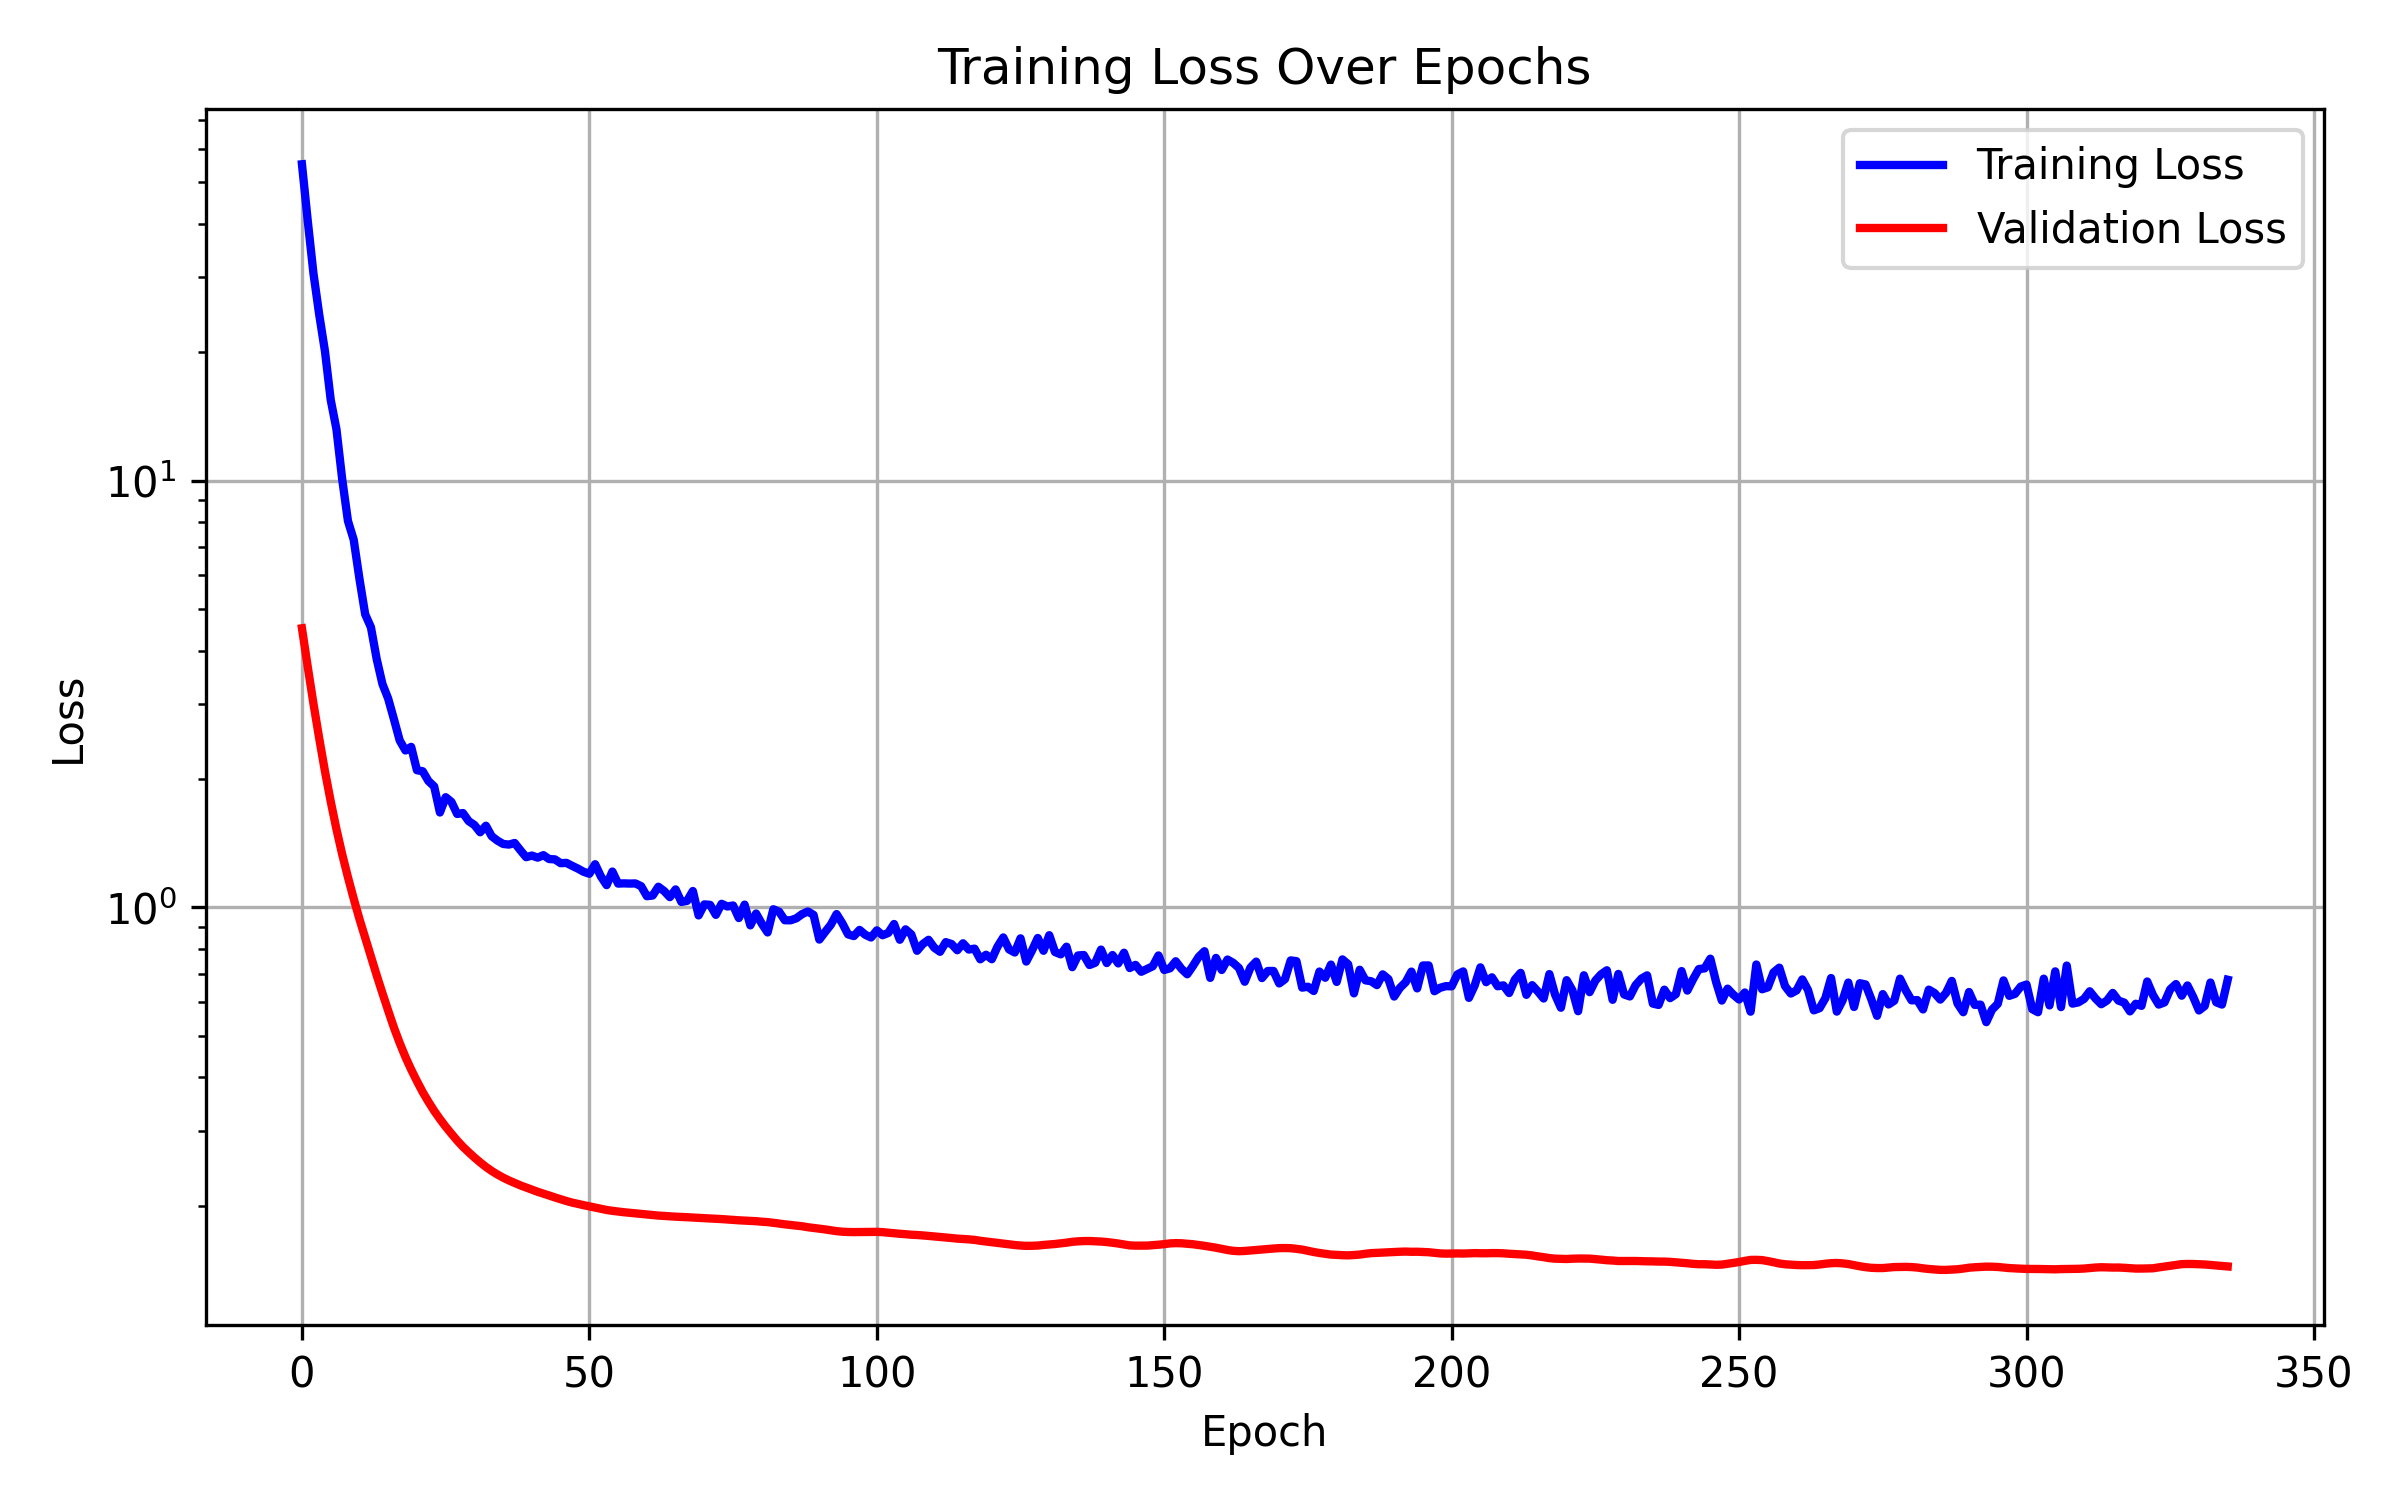
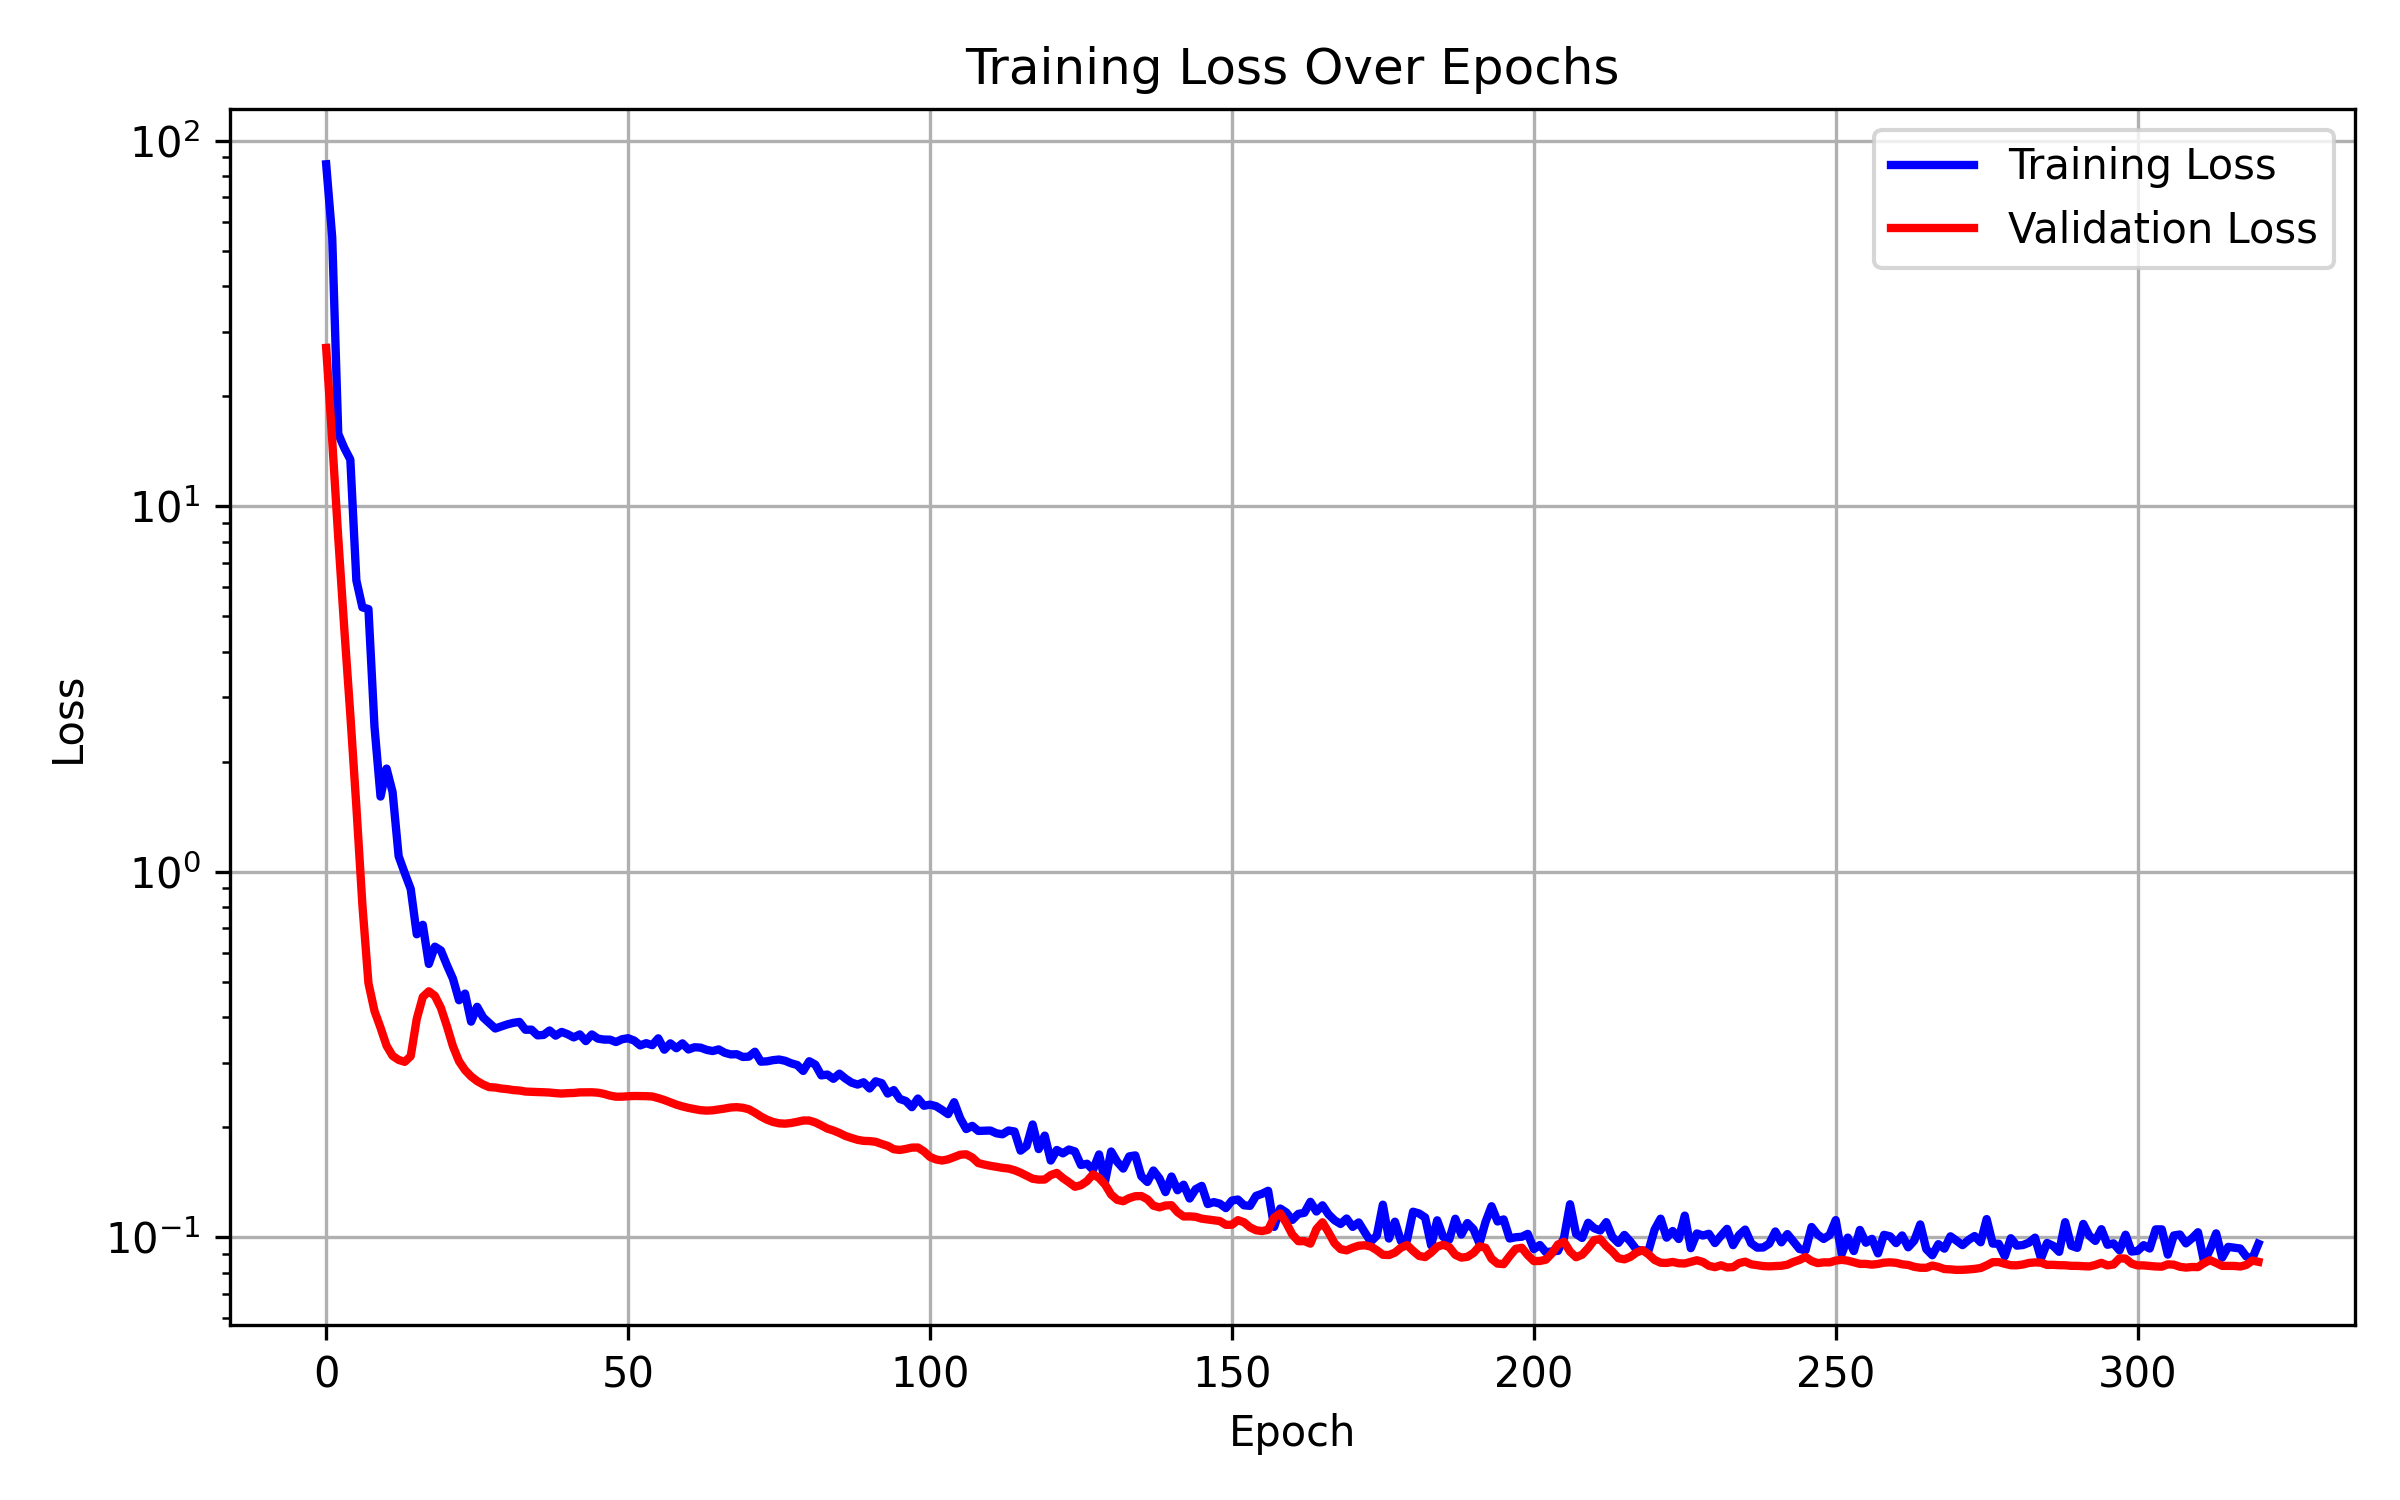
add feature generator fun

diff --git a/Data_Generator.py b/Data_Generator.py
@@ -6,6 +6,7 @@ import networkx as nx
 import matplotlib.pyplot as plt
 import math
 from itertools import product
+
 from tensorly.contrib.sparse import tensor as sparse_tensor
 
 
@@ -63,11 +64,6 @@ def generate_temporal_graph_dataset(
     assert Time % num_cycle == 0, "T must be evenly divisible by num_blocks"
     block_size = Time // num_cycle
 
-    # Divide nodes into two groups
-    # num_comm = 1
-    split_idx = nNodes // num_comm
-    # V1 = list(range(split_idx))
-    # V2 = list(range(split_idx, nNodes))
     # Assign nodes to communities
     node_communities = np.array([i * num_comm // nNodes for i in range(nNodes)])
 
@@ -91,8 +87,9 @@ def generate_temporal_graph_dataset(
     all_feat_tensors = []
 
 
+
     # Generate random node features (shared across samples)
-    X = torch.randn((nNodes, Time, Features))
+    # X = torch.randn((nNodes, Time, Features))
 
     # Generate samples
     for _ in range(num_samples):
@@ -116,20 +113,40 @@ def generate_temporal_graph_dataset(
 
         # Store tensors
         all_adj_tensors.append(torch.tensor(A, dtype=torch.float32))
+        # all_feat_tensors.append(X.clone())
+
+        # Define means and ranges for each community and cycle
+
+        means, ranges = generate_means_ranges(num_comm, num_cycle)
+        print("Means:\n", means)
+        print("Ranges:\n", ranges)
+
+        # Initialize X with zeros
+        X = torch.zeros((nNodes, Time, Features))
+
+        for node in range(nNodes):
+            comm = node_communities[node]
+            for t in range(Time):
+                t_block = t // block_size
+                # Repeat only first two cycles if more
+                effective_cycle = t_block % 2
+
+                mean = means[comm, effective_cycle]
+                spread = ranges[comm, effective_cycle]
+
+                # Draw from normal distribution (can be changed to uniform if needed)
+                value = np.random.normal(loc=mean, scale=spread)
+                X[node, t, 0] = value  # Features assumed to be 1  **** if change here we need to change the code ****
+
         all_feat_tensors.append(X.clone())
+        x_sample = X.numpy()
+        # print(f'x_sample, {x_sample}')
+
     # Pack dataset
-
-
     dataset = {
         "adj": all_adj_tensors,  # List of adjacency tensors
         "feat": all_feat_tensors  # List of feature tensors
     }
-
-    # print(f'all_adj_tensors_nonzero, {torch.count_nonzero(all_feat_tensors[0])}')
-    # print(f'all_feat_tensors_nonzero, {torch.count_nonzero(all_feat_tensors[0])}')
-    # print(all_adj_tensors[0].shape)
-    # print(f'dataset adj spr, {len(dataset['adj_spr'][0]['indices'])}')
-    # print(f'dataset adj spr, {dataset['adj_spr'][0]['values']}')
 
     # Save dataset
     torch.save(dataset, save_path)
@@ -139,6 +156,25 @@ def generate_temporal_graph_dataset(
         _visualize_temporal_graph(all_adj_tensors[0], Time, node_i, node_j, num_snapshots)
 
     return dataset
+
+
+import numpy as np
+
+def generate_means_ranges(num_comm, num_cycle=2):
+    # Generate means with some spacing to avoid duplicates
+    base_means = np.linspace(1, 5, num_comm * num_cycle)  # Spread means over 1 to 5
+    np.random.shuffle(base_means)  # Shuffle for randomness
+    community_cycle_means = base_means.reshape(num_comm, num_cycle)
+
+    # Generate ranges smaller than means, spread between 0.1 and 0.5
+    base_ranges = np.linspace(0.1, 0.5, num_comm * num_cycle)
+    np.random.shuffle(base_ranges)
+    community_cycle_ranges = base_ranges.reshape(num_comm, num_cycle)
+
+    return community_cycle_means, community_cycle_ranges
+
+
+
 
 
 def _visualize_temporal_graph(A_tensor, Time, node_i, node_j, num_snapshots):

diff --git a/main.py b/main.py
@@ -8,21 +8,21 @@ from train_batch import train_model as train_model_batch
 from train_batch import evaluate_model as evaluate_model_batch
 from visulisation import plot_training_curves
 from parafac_fun import parafac_decomposition_list_dense, parafac_decomposition_list_sparse, parafac_decomposition_dense
-from preparing_data import split_dataset, split_dataset_sparse
+from preparing_data import split_dataset
 import matplotlib.pyplot as plt
 import time
 import os
 
 # ==== 1. Preparing Dataset Parameters ====
-nNodes = 20           # Number of nodes in the graph
-Time = 10             # Number of time steps (snapshots)
+nNodes = 12           # Number of nodes in the graph
+Time = 24             # Number of time steps (snapshots)
 Features = 1          # Feature dimensions per node
-Rank = 6              # Rank of the feature matrix (used if applicable)
+Rank = 1              # Rank of the feature matrix (used if applicable)
 
 # Stochastic graph generation parameters
 num_comm = 2          # Number of communities
-num_cycle = 2         # Number of repeating cycles in graph pattern
-num_samples = 5      # Number of graph sequences to generate
+num_cycle = 4         # Number of repeating cycles in graph pattern
+num_samples = 25      # Number of graph sequences to generate
 
 use_sparse = 0        # Whether to use sparse matrix representation
 
@@ -58,7 +58,7 @@ if not os.path.exists(save_path):
     end_time_generating_data = time.time()
     elapsed_time = end_time_generating_data - start_time_generating_Data
 
-    print(f"Elapsed time: {elapsed_time:.4f} seconds")
+    print(f"Elapsed time of generating data: {elapsed_time:.4f} seconds")
 
 else:
     print(f"Dataset already exists at: {save_path}")

diff --git a/preparing_data.py b/preparing_data.py
@@ -34,33 +34,3 @@ def split_dataset(adj_list_full, feat_list_full, train_ratio=0.8, seed=42):
     return adj_list_train, feat_list_train, adj_list_val, feat_list_val
 
 
-def split_dataset_sparse(feat_list_full, sparse_adj_list, num_samples, train_ratio=0.8, seed=42):
-    """
-    Splits the dataset into training and validation sets for sparse representation.
-
-    Parameters:
-        adj_list_dense (list): Full list of dense adjacency matrices (for alignment only).
-        feat_list_full (list): Full list of feature matrices.
-        sparse_adj_list (list of dict): Sparse representations of adjacency matrices.
-        train_ratio (float): Ratio of data to use for training.
-        seed (int, optional): Random seed for reproducibility.
-
-    Returns:
-        sparse_adj_train, feat_list_train, sparse_adj_val, feat_list_val
-    """
-    if seed is not None:
-        torch.manual_seed(seed)
-
-    split_idx = int(train_ratio * num_samples)
-    indices = torch.randperm(num_samples)
-
-    train_indices = indices[:split_idx]
-    val_indices = indices[split_idx:]
-
-    sparse_adj_train = [sparse_adj_list[i] for i in train_indices]
-    feat_list_train = [feat_list_full[i] for i in train_indices]
-
-    sparse_adj_val = [sparse_adj_list[i] for i in val_indices]
-    feat_list_val = [feat_list_full[i] for i in val_indices]
-
-    return sparse_adj_train, feat_list_train, sparse_adj_val, feat_list_val

diff --git a/train.py b/train.py
@@ -59,8 +59,6 @@ def train_model(
         model.train()
         optimizer.zero_grad()
 
-
-
         # Fire the neurons!
         A_hat, B_hat, C_hat = model(input_tensor, A, B, C, Rank)
 
